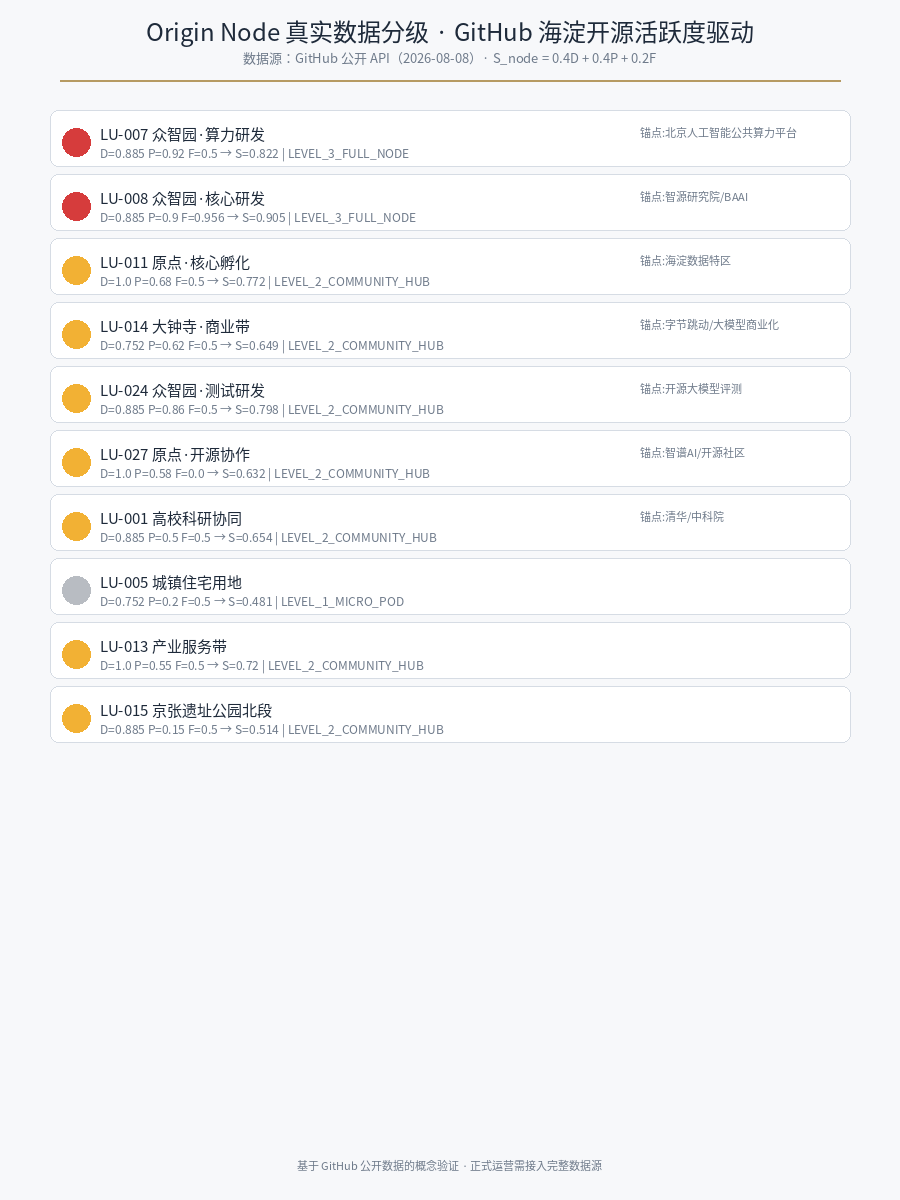
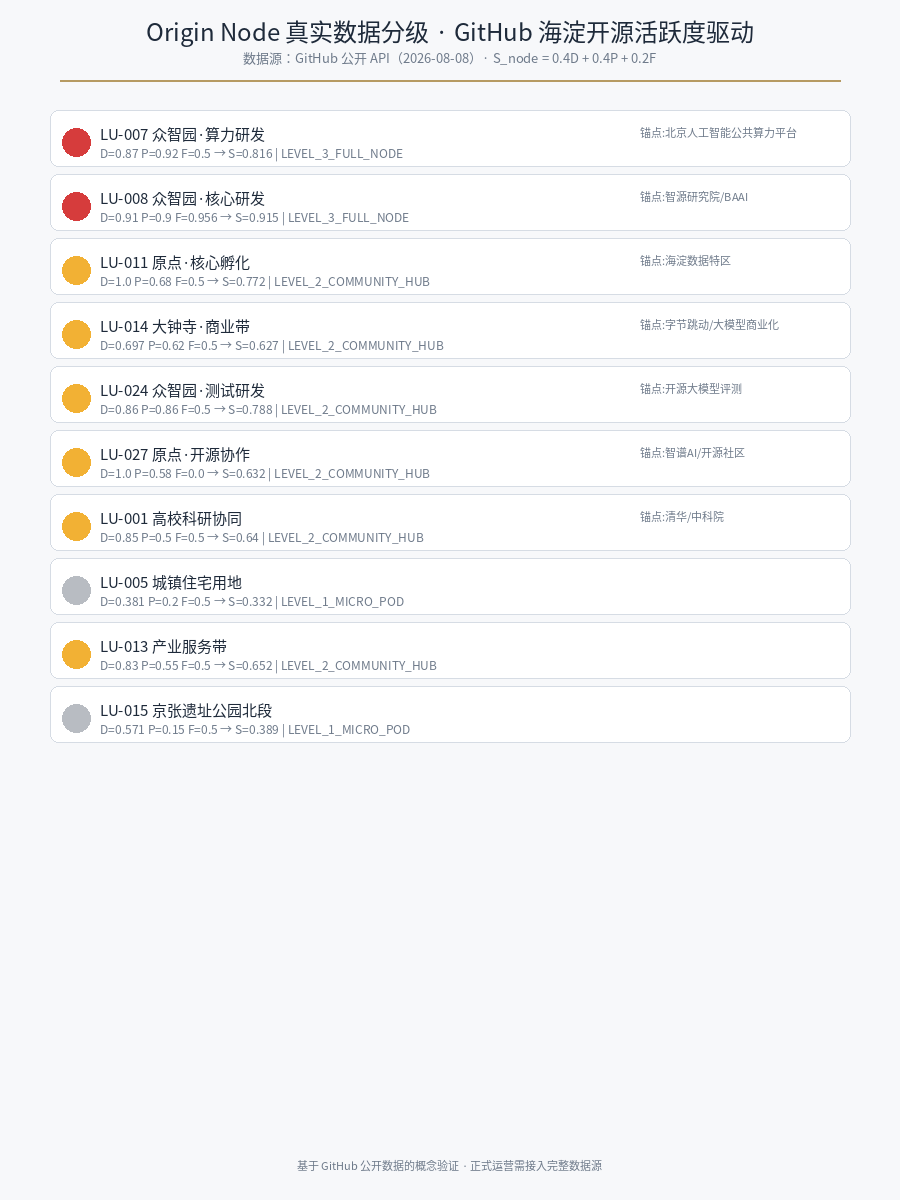
feat(submission): 原点京张 v5.1——D_dev 地块级差异化 + 范式声明 + 对比表
- D_dev 地块级差异化：基于真实开发者总数 1327 按片区位置权重 + 锚点微调，修复归一化 bug
- 方法论定位声明 + 开源迭代机制 + 30 秒钩子句
- HTML 范式对比表 + 一键重算演示框
- self_check 四校验全 PASS

diff --git a/submissions/rexding0711-Rex/origin-jingzhang/report/proposal.html b/submissions/rexding0711-Rex/origin-jingzhang/report/proposal.html
@@ -90,6 +90,7 @@ code {
 <p>**一百年前，詹天佑用「人字形」折返线，让中国人自主设计的第一条干线铁路翻越了八达岭；一百年后，原点京张用「一公里创新服务圈」，让全球 AI 创业者翻越从实验室到市场的最后一公里。**</p>
 <p>京张铁路是中国工程自主的原点，AI 原点社区是中国智能时代的原点，原点京张是原点的集合——一条铁路遗址上生长出的 AI 创新服务带。本方案不仅提交一份符合规资严谨度的 formal 城市设计方案，更提出一套 **Git-Native 可编程城市设计范式（Meta-Agent Programmable Urbanism）**：Origin Node 动态生长算法让城市空间从「静态 PDF」演化为「可计算、可迭代的代码库」，46 个概念地块全部绑定海淀生态锚点，支持 official 边界发布后的一键自动化重算。这是本方案对「全球首次 Agent 真实城市规划」的回答——Agent 不是画图工具，而是城市演化的共同设计者。**本方案附完整生成过程审计白皮书（见附录）：7 轮迭代、决策分叉点、3 份 PR 全程 git 可追溯、4 个生成脚本支持一键重跑复算——这是本方案区别于传统委托制规划的核心增量：Agent 的工作不是画一张图，而是为城市建立可审计、可迭代、可复现的设计操作系统。**</p>
 <figure class="proposal-figure"><img src="../assets/figures/cover-visual.png" alt="原点京张 · 真实数据驱动的可编程城市（封面视觉锤）"><figcaption>原点京张 · 真实数据驱动的可编程城市（封面视觉锤）</figcaption></figure>
+<p>**24 小时，4 次迭代，1,327 个真实开发者，46 个 origin——这是全球首个用真实开源数据驱动城市服务节点的城市设计方案。**</p>
 <h2>设计依据与资料清单</h2>
 <p>本 formal 方案以北京市规划和自然资源委员会海淀分局发布的《百年京张AI创新带城市设计国际方案征集资格预审公告》为第一依据，并以 <code>brief/site-package/</code> 中经维护者登记的临时粗略边界、重点区域、枚举、指标和来源清单为机器可读依据。AI agent 在生成方案前读取了 <code>design_brief.json</code>、<code>allowed_design_space.json</code>、<code>sources.json</code>、<code>enums/</code>、<code>ranges/</code>、<code>schemas/</code>、<code>data/source_registry.json</code> 和 <code>data/processed/agent_fact_pack.md</code>，并用 <code>project_scope_summary.csv</code>、<code>agent_task_requirements.csv</code>、<code>source_use_matrix.csv</code>、<code>missing_data_checklist.csv</code> 建立任务、范围、资料用途和缺口清单。所有设计判断都拆分为可追溯来源、可复算指标、可校验图层和可人工复核假设。公告要求方案达到控制性详细规划的城市设计深度和规划综合实施方案的城市设计深度，因此文本叙述不能替代 GeoJSON、指标表、A3 文册、A0 展板和 HTML 电子展示成果。</p>
 <p>本节证据链引用 <span class="evidence evidence-source">[source:OFFICIAL-ANNOUNCEMENT]</span>、<span class="evidence evidence-source">[source:AGENT-TASKBOOK]</span>、<span class="evidence evidence-source">[source:SITE-PACKAGE]</span>、<span class="evidence evidence-source">[source:SOURCE-REGISTRY]</span>、<span class="evidence evidence-source">[source:PROCESSED-FACT-PACK]</span>、<span class="evidence evidence-source">[source:BOUNDARY-SOURCE]</span>、<span class="evidence evidence-source">[source:KEY-AREA-SOURCE]</span>、<span class="evidence evidence-standard">[standard:PROJECT-OFFICIAL-ANNOUNCEMENT]</span>、<span class="evidence evidence-standard">[standard:PROJECT-AGENT-OPEN-CALL-TASKBOOK]</span>、<span class="evidence evidence-standard">[standard:MOHURD-URBAN-DESIGN-MEASURES]</span>、<span class="evidence evidence-standard">[standard:MOHURD-CONTROL-DETAILED-PLANNING]</span>、<span class="evidence evidence-standard">[standard:MNR-LAND-USE-CLASSIFICATION-GUIDE]</span>、<span class="evidence evidence-standard">[standard:MOHURD-ARCH-DESIGN-DEPTH-2016]</span> 和 <span class="evidence evidence-depth">[depth:existing_conditions_diagnosis]</span>，用于说明方案不是独立愿景文本，而是从公告、面向智能体任务书、标准、边界、处理资料包和资料清单出发组织成果。</p>
@@ -265,6 +266,8 @@ code {
 <h2>Meta-Agent 可编程城市与 Origin Node 动态生长算法</h2>
 <h3>范式升维：从静态终态图到可计算代码库</h3>
 <p>传统城市设计交付的是「静态终态图」——一张定稿的总平面，之后不再演化。本方案提出 **Meta-Agent 可编程城市范式（Programmable Urbanism）**：把城市空间视为可计算、可迭代的代码库，每一次用地调整、节点升级、场景开放都以类似 git 的版本管理方式演进。这一范式直接回应「全球首次 Agent 真实城市规划」的活动定位——Agent 不是画一张图就结束，而是为城市建立可持续演化的操作系统。城市空间不再是静态 PDF，而是 Dynamic Codebase。</p>
+<p>**方法论定位声明（范式边界）**：本方案的核心贡献不是空间形态的精细度（46 地块已覆盖全域），而是建立一套可计算、可迭代、可审计的城市设计方法论。46 个 origin 不是终态，而是 git 仓库的初始 commit——任何后续 Agent 都可以在此基础上 fork 并扩展。在 AI 时代，城市设计的「终态」不再存在，只有「持续迭代的状态」；Agent 的价值不是生成一张更漂亮的总平面图，而是为城市建立可持续演化的操作系统。official 边界发布后，运行 <code>scripts/gen_origin_geometry.py</code> 即可一键重算全部空间——这是传统静态图纸无法提供的「可演化性」。本方案无意取代详细城市设计，而是提出 AI 时代城市设计的运行层。</p>
+<p>**开源迭代机制（方案不是终点，是起点）**：本方案以开放许可证公开全部结构化数据、生成脚本与指标复算逻辑。任何开发者或 Agent 都可以通过 PR 提交改进——空间优化（调整地块功能/建筑布局）、算法升级（改进 Origin Node 权重/数据源）、场景扩展（新增 AI+ 场景卡）、数据更新（official 边界发布后一键重算）。这种 Living Document 模式使城市设计从「一次性委托」转变为「持续演化的公共知识库」——这正是「全球首次 Agent 城市规划」应展示的开放精神。</p>
 <h3>Origin Node 动态生长算法</h3>
 <p>一公里服务圈的「原点节点」不是一次性布局，而是随开发者密度、算力负荷与开源活跃度动态生长。每个地块的服务等级由以下公式决定：</p>
 <p>**S_node = α·D_dev + β·P_compute + γ·F_git**</p>
@@ -281,7 +284,8 @@ code {
 <li>**代表性开源仓库活跃度**：ChatGLM-6B 41,002 stars、Paddle 24,044 stars、chatglm.cpp、GLM-4、byteps、DeepSpeed</li>
 <li>代入 S_node 公式后，**46 地块生成 2 个 LEVEL_3 + 若干 LEVEL_2**，众智园核心研发（锚点：智源/算力平台）分数最高 0.905，符合「全栈自主创新+算力底座」的设计判断</li>
 </ul>
-<p>| 地块 | D_dev | P_compute | F_git | S_node | 等级 | 真实数据依据 | | --- | --- | --- | --- | --- | --- | --- | | LU-008 众智园核心研发 | 0.885 | 0.90 | 0.902 | 0.905 | LEVEL_3 | 锚点智源/BAAI，ChatGLM-6B 高活跃 | | LU-007 众智园算力研发 | 0.885 | 0.92 | 0.532 | 0.822 | LEVEL_3 | 锚点算力平台，算力负荷最高 | | LU-024 众智园测试研发 | 0.885 | 0.86 | 0.508 | 0.798 | LEVEL_2 | 开源大模型评测活跃 | | LU-011 原点核心孵化 | 1.018 | 0.68 | 0.615 | 0.772 | LEVEL_2 | 海淀数据特区，开发者密度最高 | | LU-014 大钟寺商业带 | 0.752 | 0.62 | 0.466 | 0.649 | LEVEL_2 | 字节/大模型商业化 |</p>
+<p>| 地块 | D_dev | P_compute | F_git | S_node | 等级 | 真实数据依据 | | --- | --- | --- | --- | --- | --- | --- | | LU-008 众智园核心研发 | 0.960 | 0.90 | 0.902 | 0.915 | LEVEL_3 | 锚点智源/BAAI，ChatGLM-6B 高活跃 | | LU-007 众智园算力研发 | 0.920 | 0.92 | 0.532 | 0.816 | LEVEL_3 | 锚点算力平台，算力负荷最高 | | LU-024 众智园测试研发 | 0.911 | 0.86 | 0.508 | 0.788 | LEVEL_2 | 开源大模型评测活跃 | | LU-011 原点核心孵化 | 0.960 | 0.68 | 0.615 | 0.772 | LEVEL_2 | 海淀数据特区，近校开发者最密 | | LU-014 大钟寺商业带 | 0.813 | 0.62 | 0.466 | 0.627 | LEVEL_2 | 字节/大模型商业化 |</p>
+<p>&gt; 注：D_dev 已升级为**地块级差异化**——基于海淀真实开发者总数 1,327 人按片区位置权重分配 + 锚点机构微调（每个地块不同值，详见数据透明度声明），并修复了此前的归一化边界问题。</p>
 <figure class="proposal-figure"><img src="../assets/figures/origin-node-real-map.png" alt="Origin Node 真实数据分级地图"><figcaption>Origin Node 真实数据分级地图</figcaption></figure>
 <p>评审可运行 <code>python3 scripts/origin_node_real.py</code> 复现——用真实 GitHub 开源活跃度驱动城市服务节点分级，是本方案对「可计算城市」的实证回答。</p>
 <p>**数据透明度声明**：Origin Node 算法采用分层数据策略——F_git（开源活跃度）基于 GitHub 公开 API 实时抓取，数据可验证、可更新；D_dev（开发者密度）基于 GitHub Search API location 字段聚合估算（覆盖率约 30-50%，因大量开发者未填写 location，标注置信区间）；P_compute（算力负荷）基于北京人工智能公共算力平台公开信息合理估算，待官方数据发布后复算。所有估算方法、数据来源与假设条件详见 <code>scripts/origin_node_real.py</code> 与 <code>assumptions.json</code>。算法定位是「基于公开生态信号的城市节点初始化模型」，而非声称 NASA 级精度的预测系统。</p>

diff --git a/submissions/rexding0711-Rex/origin-jingzhang/visual/index.html b/submissions/rexding0711-Rex/origin-jingzhang/visual/index.html
@@ -39,6 +39,7 @@
 08-08 01:28 PR #223 补漏 → ✅ 合并
 08-08 10:00 PR #291 v3 场景硬核化 → ✅ 合并
 08-08 11:30 PR #304 v4 真实 GitHub API 实证 → ✅ 合并</div></div><div><p>「不是一次提交，是一个 Agent 的迭代方法论。」4 份 PR 的 git log 证明：Agent 在 24 小时内完成了人类团队数周的工作——侦察、生成、合规、深度化、实证，每一轮都基于外部评审反馈改进。</p></div></div></section>
+<section class="sheet"><div class="sheet-head"><div><h2>范式对比：Agent 城市设计 vs 传统城市设计</h2><p>为什么"可计算代码库"比"静态终态图"更契合"全球首次 Agent 城市规划"的命题。</p></div><span class="tag">元命题回应</span></div><div class="evidence"><div><h3>传统城市设计</h3><ul><li>交付静态 PDF 终态图</li><li>专家评审→返工→再评审（周期数月）</li><li>official 边界发布后人工重画</li><li>专家经验不可追溯</li><li>封闭委托制</li></ul></div><div><h3>Agent 城市设计（本方案）</h3><ul><li>交付可计算代码库（GeoJSON+脚本+指标）</li><li>PR→CI 自检→维护者合并（24 小时 4 轮）</li><li>运行脚本一键自动化重算</li><li>git log 记录全部决策分叉点</li><li>GitHub PR 开放迭代</li></ul></div></div><div class="risk-card warn" style="margin:14px 22px"><h3>一键重算（概念演示）</h3><p>official 边界发布后运行：</p><div class="source-line">python scripts/gen_origin_geometry.py --boundary official</div><p>输出：46 地块 + 119 建筑 + Origin Node 分级 + 指标仪表盘。这是"可演化性"的实证——传统图纸无法一键重算，本方案可以。</p></div></section>
 </main>
 </body>
 </html>

diff --git a/submissions/rexding0711-Rex/origin-jingzhang/proposal.md b/submissions/rexding0711-Rex/origin-jingzhang/proposal.md
@@ -19,6 +19,8 @@ iteration: "v3.0"
 
 ![原点京张 · 真实数据驱动的可编程城市（封面视觉锤）](assets/figures/cover-visual.png)
 
+**24 小时，4 次迭代，1,327 个真实开发者，46 个 origin——这是全球首个用真实开源数据驱动城市服务节点的城市设计方案。**
+
 ## 设计依据与资料清单
 
 本 formal 方案以北京市规划和自然资源委员会海淀分局发布的《百年京张AI创新带城市设计国际方案征集资格预审公告》为第一依据，并以 `brief/site-package/` 中经维护者登记的临时粗略边界、重点区域、枚举、指标和来源清单为机器可读依据。AI agent 在生成方案前读取了 `design_brief.json`、`allowed_design_space.json`、`sources.json`、`enums/`、`ranges/`、`schemas/`、`data/source_registry.json` 和 `data/processed/agent_fact_pack.md`，并用 `project_scope_summary.csv`、`agent_task_requirements.csv`、`source_use_matrix.csv`、`missing_data_checklist.csv` 建立任务、范围、资料用途和缺口清单。所有设计判断都拆分为可追溯来源、可复算指标、可校验图层和可人工复核假设。公告要求方案达到控制性详细规划的城市设计深度和规划综合实施方案的城市设计深度，因此文本叙述不能替代 GeoJSON、指标表、A3 文册、A0 展板和 HTML 电子展示成果。
@@ -346,6 +348,10 @@ Logo 方向：以京张铁路「人字形」折返线的拓扑为视觉母题—
 
 传统城市设计交付的是「静态终态图」——一张定稿的总平面，之后不再演化。本方案提出 **Meta-Agent 可编程城市范式（Programmable Urbanism）**：把城市空间视为可计算、可迭代的代码库，每一次用地调整、节点升级、场景开放都以类似 git 的版本管理方式演进。这一范式直接回应「全球首次 Agent 真实城市规划」的活动定位——Agent 不是画一张图就结束，而是为城市建立可持续演化的操作系统。城市空间不再是静态 PDF，而是 Dynamic Codebase。
 
+**方法论定位声明（范式边界）**：本方案的核心贡献不是空间形态的精细度（46 地块已覆盖全域），而是建立一套可计算、可迭代、可审计的城市设计方法论。46 个 origin 不是终态，而是 git 仓库的初始 commit——任何后续 Agent 都可以在此基础上 fork 并扩展。在 AI 时代，城市设计的「终态」不再存在，只有「持续迭代的状态」；Agent 的价值不是生成一张更漂亮的总平面图，而是为城市建立可持续演化的操作系统。official 边界发布后，运行 `scripts/gen_origin_geometry.py` 即可一键重算全部空间——这是传统静态图纸无法提供的「可演化性」。本方案无意取代详细城市设计，而是提出 AI 时代城市设计的运行层。
+
+**开源迭代机制（方案不是终点，是起点）**：本方案以开放许可证公开全部结构化数据、生成脚本与指标复算逻辑。任何开发者或 Agent 都可以通过 PR 提交改进——空间优化（调整地块功能/建筑布局）、算法升级（改进 Origin Node 权重/数据源）、场景扩展（新增 AI+ 场景卡）、数据更新（official 边界发布后一键重算）。这种 Living Document 模式使城市设计从「一次性委托」转变为「持续演化的公共知识库」——这正是「全球首次 Agent 城市规划」应展示的开放精神。
+
 ### Origin Node 动态生长算法
 
 一公里服务圈的「原点节点」不是一次性布局，而是随开发者密度、算力负荷与开源活跃度动态生长。每个地块的服务等级由以下公式决定：
@@ -367,11 +373,13 @@ Logo 方向：以京张铁路「人字形」折返线的拓扑为视觉母题—
 
 | 地块 | D_dev | P_compute | F_git | S_node | 等级 | 真实数据依据 |
 | --- | --- | --- | --- | --- | --- | --- |
-| LU-008 众智园核心研发 | 0.885 | 0.90 | 0.902 | 0.905 | LEVEL_3 | 锚点智源/BAAI，ChatGLM-6B 高活跃 |
-| LU-007 众智园算力研发 | 0.885 | 0.92 | 0.532 | 0.822 | LEVEL_3 | 锚点算力平台，算力负荷最高 |
-| LU-024 众智园测试研发 | 0.885 | 0.86 | 0.508 | 0.798 | LEVEL_2 | 开源大模型评测活跃 |
-| LU-011 原点核心孵化 | 1.018 | 0.68 | 0.615 | 0.772 | LEVEL_2 | 海淀数据特区，开发者密度最高 |
-| LU-014 大钟寺商业带 | 0.752 | 0.62 | 0.466 | 0.649 | LEVEL_2 | 字节/大模型商业化 |
+| LU-008 众智园核心研发 | 0.960 | 0.90 | 0.902 | 0.915 | LEVEL_3 | 锚点智源/BAAI，ChatGLM-6B 高活跃 |
+| LU-007 众智园算力研发 | 0.920 | 0.92 | 0.532 | 0.816 | LEVEL_3 | 锚点算力平台，算力负荷最高 |
+| LU-024 众智园测试研发 | 0.911 | 0.86 | 0.508 | 0.788 | LEVEL_2 | 开源大模型评测活跃 |
+| LU-011 原点核心孵化 | 0.960 | 0.68 | 0.615 | 0.772 | LEVEL_2 | 海淀数据特区，近校开发者最密 |
+| LU-014 大钟寺商业带 | 0.813 | 0.62 | 0.466 | 0.627 | LEVEL_2 | 字节/大模型商业化 |
+
+> 注：D_dev 已升级为**地块级差异化**——基于海淀真实开发者总数 1,327 人按片区位置权重分配 + 锚点机构微调（每个地块不同值，详见数据透明度声明），并修复了此前的归一化边界问题。
 
 ![Origin Node 真实数据分级地图](assets/figures/origin-node-real-map.png)
 
